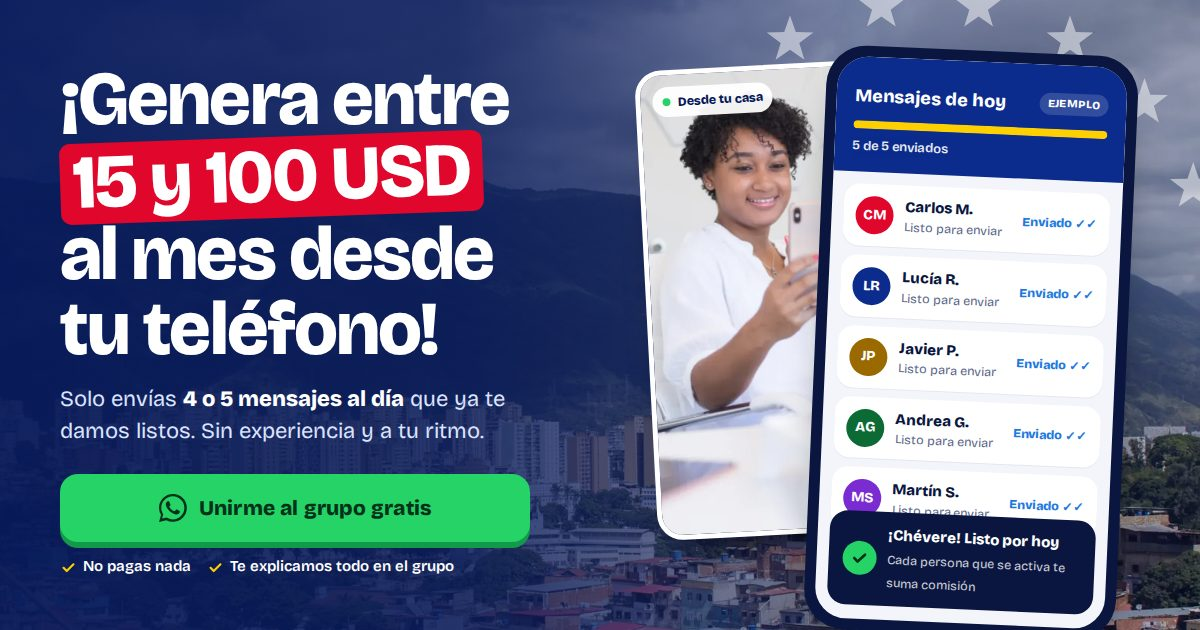
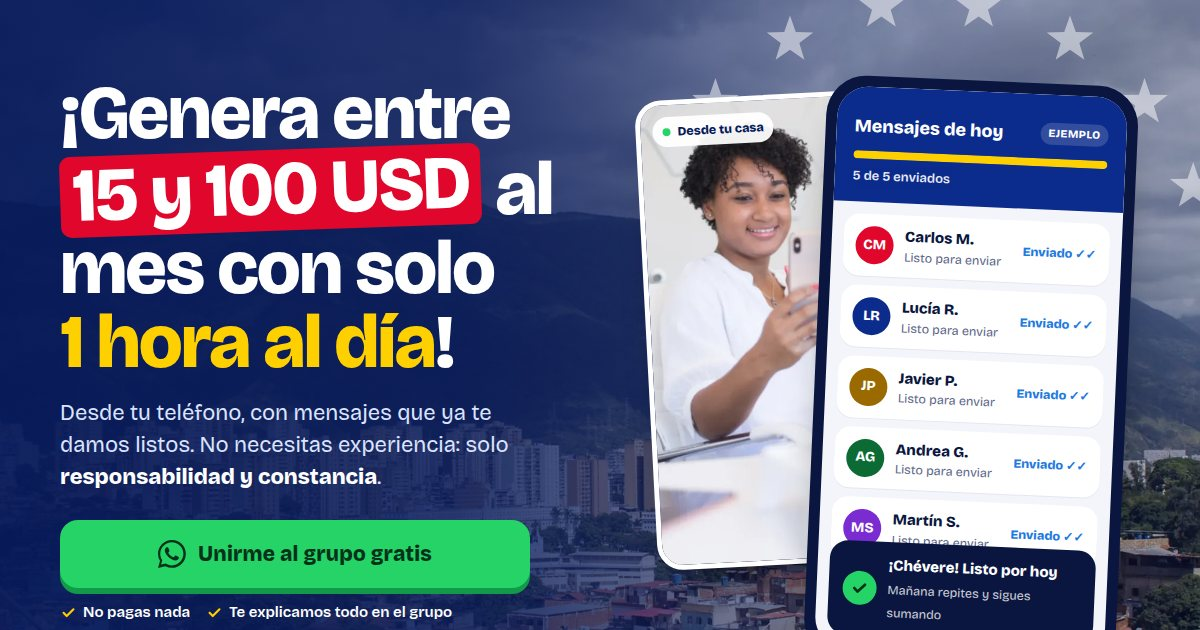
feat: 1 hora al dia con responsabilidad y constancia, seccion de compromiso y mas preguntas

diff --git a/public/index.html b/public/index.html
@@ -3,10 +3,10 @@
 <head>
 <meta charset="utf-8">
 <meta name="viewport" content="width=device-width, initial-scale=1, viewport-fit=cover">
-<title>Genera entre 15 y 100 USD al mes desde tu teléfono</title>
-<meta name="description" content="Envía 4 o 5 mensajes al día que ya te damos listos. Sin experiencia y a tu ritmo. Únete gratis al grupo de WhatsApp.">
-<meta property="og:title" content="Genera entre 15 y 100 USD al mes desde tu teléfono">
-<meta property="og:description" content="4 o 5 mensajes al día, ya escritos. Sin experiencia. Únete gratis al grupo.">
+<title>Genera entre 15 y 100 USD al mes con 1 hora al día</title>
+<meta name="description" content="Desde tu teléfono y con mensajes que ya te damos listos. Sin experiencia: solo 1 hora al día, con responsabilidad y constancia. Únete gratis al grupo de WhatsApp.">
+<meta property="og:title" content="Genera entre 15 y 100 USD al mes con 1 hora al día">
+<meta property="og:description" content="Desde tu teléfono, sin experiencia. Solo 1 hora al día con responsabilidad y constancia. Únete gratis al grupo.">
 <meta property="og:type" content="website">
 <meta property="og:image:width" content="1200">
 <meta property="og:image:height" content="630">
@@ -56,6 +56,7 @@ body{font-family:"Bricolage Grotesque",system-ui,sans-serif;color:var(--tinta);b
 .lugar svg{width:15px;height:15px;fill:none;stroke:var(--amarillo);stroke-width:2.4}
 h1{margin-top:12px;font-weight:800;font-size:clamp(40px, 11vw, 76px);line-height:.98;letter-spacing:-0.025em;text-wrap:balance}
 .monto{display:inline-block;background:var(--rojo);color:#fff;padding:.02em .16em .06em;border-radius:.14em;transform:rotate(-2deg);white-space:nowrap}
+.hora{color:var(--amarillo)}
 .sub{margin-top:18px;font-size:clamp(18px, 4.8vw, 22px);line-height:1.45;color:#dbe3ff;max-width:32ch}
 .sub b{color:#fff;font-weight:800}
 
@@ -137,6 +138,37 @@ h2{margin-top:8px;font-size:clamp(32px, 8.4vw, 54px);line-height:1.02;font-weigh
 .pasos p{margin-top:6px;font-size:16.5px;line-height:1.45;color:#39436a}
 .pasos-cta{margin-top:30px;max-width:460px}
 
+/* compromiso: 1 hora al dia, responsabilidad y constancia */
+.compromiso{background-color:var(--amarillo);background-image:var(--estrellitas)}
+.compromiso .kicker{color:var(--azul-osc)}
+.compromiso .intro{color:#27305c}
+.compromiso .intro b{color:var(--azul-osc)}
+.comp-grid{display:grid;gap:26px}
+.dia{background:#fff;border-radius:24px;padding:20px 18px 18px;box-shadow:0 2px 0 rgba(10,22,64,.08)}
+.dia-tit{display:flex;justify-content:space-between;align-items:baseline;gap:10px;font-size:15px;font-weight:800;color:var(--azul)}
+.dia-tit small{font-size:13px;font-weight:600;color:var(--gris)}
+.horas{display:grid;grid-template-columns:repeat(24,1fr);gap:3px;height:46px;margin-top:44px}
+.horas > i{background:#dfe5f4;border-radius:4px;position:relative}
+.horas > i.tuya{background:var(--rojo)}
+.etiqueta{position:absolute;bottom:calc(100% + 9px);left:50%;transform:translateX(-50%);white-space:nowrap;
+  background:var(--rojo);color:#fff;font-size:13px;font-weight:800;font-style:normal;padding:5px 10px;border-radius:999px}
+.etiqueta::after{content:"";position:absolute;left:50%;top:100%;margin-left:-6px;border:6px solid transparent;border-top-color:var(--rojo)}
+.marcas{display:flex;justify-content:space-between;margin-top:7px;font-size:12px;font-weight:600;color:var(--gris)}
+.leyenda{display:flex;flex-wrap:wrap;gap:6px 18px;margin-top:14px;font-size:14.5px;font-weight:600;color:#39436a}
+.leyenda span{display:inline-flex;align-items:center;gap:7px}
+.leyenda i{width:12px;height:12px;border-radius:3px;background:#dfe5f4}
+.leyenda i.r{background:var(--rojo)}
+.pide{list-style:none;display:grid;gap:12px;margin-top:12px}
+.pide li{display:flex;gap:14px;align-items:flex-start;background:#fff;border-radius:20px;padding:18px;box-shadow:0 2px 0 rgba(10,22,64,.08)}
+.pide .ic{width:46px;height:46px;border-radius:14px;background:var(--azul);display:grid;place-items:center;flex:none}
+.pide .ic svg{width:25px;height:25px;fill:none;stroke:#fff;stroke-width:2.2;stroke-linecap:round;stroke-linejoin:round}
+.pide b{display:block;font-size:19px;color:var(--azul);line-height:1.2}
+.pide p{margin-top:4px;font-size:16px;line-height:1.45;color:#39436a}
+.racha{display:flex;gap:5px;margin-top:10px}
+.racha i{width:26px;height:26px;border-radius:50%;background:var(--wa);color:var(--wa-tinta);font-style:normal;font-size:12px;font-weight:800;display:grid;place-items:center}
+.comp-linea{font-size:18px;font-weight:600;color:var(--azul-osc)}
+.comp-accion .cta{max-width:460px}
+
 /* cuanto: foto de El Avila al atardecer */
 .cuanto{color:#fff;background:var(--azul-osc);overflow:hidden}
 .cuanto::before{content:"";position:absolute;inset:0;background:url(img/avila-1600.webp) center 60%/cover no-repeat;opacity:.5}
@@ -211,6 +243,11 @@ footer a{color:inherit}
   .tel{transform:rotate(2.5deg)}
   .pasos{grid-template-columns:repeat(4,1fr)}
   .pasos li{padding:84px 22px 26px}
+  .comp-grid{grid-template-columns:.85fr 1.15fr;grid-template-areas:"head vis" "accion vis";column-gap:56px;row-gap:0;align-items:start}
+  .comp-head{grid-area:head;align-self:end}
+  .comp-vis{grid-area:vis}
+  .comp-accion{grid-area:accion;margin-top:26px}
+  .pide{grid-template-columns:1fr 1fr}
   .escalera{grid-template-columns:repeat(3,1fr);align-items:end;gap:14px}
   .escalera .escalon:nth-child(n){width:auto}
   .escalon{border-radius:20px 20px 8px 8px;grid-template-columns:1fr;align-content:start;padding:20px}
@@ -245,8 +282,8 @@ footer a{color:inherit}
   <div class="cont hero-grid">
     <div>
       <span class="lugar"><svg viewBox="0 0 24 24" aria-hidden="true"><path d="M12 21s-6.5-6.1-6.5-11A6.5 6.5 0 0 1 18.5 10c0 4.9-6.5 11-6.5 11z"/><circle cx="12" cy="10" r="2.3"/></svg>Desde Caracas, Maracaibo, Valencia o donde estés</span>
-      <h1>¡Genera entre <span class="monto">15 y 100 USD</span> al mes desde tu teléfono!</h1>
-      <p class="sub">Solo envías <b>4 o 5 mensajes al día</b> que ya te damos listos. Sin experiencia y a tu ritmo.</p>
+      <h1>¡Genera entre <span class="monto">15 y 100 USD</span> al mes con solo <span class="hora">1 hora al día</span>!</h1>
+      <p class="sub">Desde tu teléfono, con mensajes que ya te damos listos. No necesitas experiencia: solo <b>responsabilidad y constancia</b>.</p>
 
       <a class="cta" href="https://chat.whatsapp.com/C1FRFqTowrd1bjHnhnset9" rel="noopener"><svg viewBox="0 0 24 24" aria-hidden="true"><path d="M.06 24l1.68-6.16A11.9 11.9 0 010 11.93C0 5.35 5.35 0 11.93 0a11.86 11.86 0 018.44 3.5 11.82 11.82 0 013.49 8.44c0 6.58-5.35 11.93-11.93 11.93a11.9 11.9 0 01-5.7-1.45L.06 24zM6.6 20.2c1.63.97 3.19 1.55 5.25 1.55 5.46 0 9.91-4.44 9.91-9.9 0-5.47-4.45-9.91-9.91-9.91S1.95 6.38 1.95 11.85c0 2.17.64 3.79 1.7 5.48l-.99 3.63 3.94-.76zm11.28-5.6c-.07-.12-.27-.2-.57-.35-.3-.15-1.76-.87-2.03-.97-.27-.1-.47-.15-.67.15-.2.3-.77.97-.94 1.17-.17.2-.35.22-.65.07-.3-.15-1.26-.46-2.4-1.48-.89-.79-1.49-1.77-1.66-2.07-.17-.3-.02-.46.13-.61.14-.13.3-.35.45-.52.15-.17.2-.3.3-.5.1-.2.05-.37-.02-.52-.07-.15-.67-1.62-.92-2.21-.24-.58-.49-.5-.67-.51h-.57c-.2 0-.52.07-.79.37-.27.3-1.04 1.02-1.04 2.48s1.06 2.88 1.21 3.08c.15.2 2.1 3.2 5.08 4.49.71.3 1.26.49 1.69.63.71.23 1.36.19 1.87.12.57-.09 1.76-.72 2-1.41.25-.7.25-1.29.18-1.41z"/></svg>Unirme al grupo gratis</a>
       <div class="cta-nota">
@@ -277,7 +314,7 @@ footer a{color:inherit}
             </ul>
             <div class="toast" id="toast">
               <span class="chk"><svg viewBox="0 0 24 24"><path d="M5 12.5l4.5 4.5L19 7.5"/></svg></span>
-              <span><b>¡Chévere! Listo por hoy</b><small>Cada persona que se activa te suma comisión</small></span>
+              <span><b>¡Chévere! Listo por hoy</b><small>Mañana repites y sigues sumando</small></span>
             </div>
           </div>
         </div>
@@ -291,7 +328,7 @@ footer a{color:inherit}
     <li><svg viewBox="0 0 24 24" aria-hidden="true"><circle cx="12" cy="12" r="9"/><path d="M8 12.5l2.8 2.8L16.5 9.5"/></svg><span><b>Gratis para empezar</b><small>No pagas nada para entrar</small></span></li>
     <li><svg viewBox="0 0 24 24" aria-hidden="true"><rect x="6.5" y="2.5" width="11" height="19" rx="2.5"/><path d="M11 18.5h2"/></svg><span><b>Desde tu teléfono</b><small>Solo necesitas WhatsApp</small></span></li>
     <li><svg viewBox="0 0 24 24" aria-hidden="true"><path d="M4 6.5h16M4 12h10M4 17.5h7"/></svg><span><b>Sin experiencia</b><small>Te damos los mensajes listos</small></span></li>
-    <li><svg viewBox="0 0 24 24" aria-hidden="true"><circle cx="12" cy="12" r="9"/><path d="M12 7v5l3.5 2"/></svg><span><b>A tu ritmo</b><small>Unos minutos al día</small></span></li>
+    <li><svg viewBox="0 0 24 24" aria-hidden="true"><circle cx="12" cy="12" r="9"/><path d="M12 7v5l3.5 2"/></svg><span><b>1 hora al día</b><small>Con constancia, cada día</small></span></li>
   </ul>
 </div>
 
@@ -304,10 +341,48 @@ footer a{color:inherit}
       <ol class="pasos">
         <li class="rev"><h3>Únete al grupo</h3><p>Toca el botón verde y entra a nuestro grupo de WhatsApp. No cuesta nada.</p></li>
         <li class="rev"><h3>Recibe tus mensajes listos</h3><p>Cada día te pasamos a quién escribirle y el mensaje ya escrito. Copias, pegas y listo.</p></li>
-        <li class="rev"><h3>Envía 4 o 5 mensajes</h3><p>Desde tu teléfono, en unos minutos, a la hora que mejor te quede.</p></li>
-        <li class="rev"><h3>Cobra por tus resultados</h3><p>Cada persona que se activa con tu código te suma comisión. Mientras más le echas pichón, más generas.</p></li>
+        <li class="rev"><h3>Dedícale 1 hora al día</h3><p>Desde tu teléfono, a la hora que mejor te quede. Lo importante es no saltarte días.</p></li>
+        <li class="rev"><h3>Cobra por tus resultados</h3><p>Cada persona que se activa con tu código te suma comisión. Si le echas pichón todos los días, vas sumando más.</p></li>
       </ol>
       <a class="cta pasos-cta rev" href="https://chat.whatsapp.com/C1FRFqTowrd1bjHnhnset9" rel="noopener"><svg viewBox="0 0 24 24" aria-hidden="true"><path d="M.06 24l1.68-6.16A11.9 11.9 0 010 11.93C0 5.35 5.35 0 11.93 0a11.86 11.86 0 018.44 3.5 11.82 11.82 0 013.49 8.44c0 6.58-5.35 11.93-11.93 11.93a11.9 11.9 0 01-5.7-1.45L.06 24zM6.6 20.2c1.63.97 3.19 1.55 5.25 1.55 5.46 0 9.91-4.44 9.91-9.9 0-5.47-4.45-9.91-9.91-9.91S1.95 6.38 1.95 11.85c0 2.17.64 3.79 1.7 5.48l-.99 3.63 3.94-.76zm11.28-5.6c-.07-.12-.27-.2-.57-.35-.3-.15-1.76-.87-2.03-.97-.27-.1-.47-.15-.67.15-.2.3-.77.97-.94 1.17-.17.2-.35.22-.65.07-.3-.15-1.26-.46-2.4-1.48-.89-.79-1.49-1.77-1.66-2.07-.17-.3-.02-.46.13-.61.14-.13.3-.35.45-.52.15-.17.2-.3.3-.5.1-.2.05-.37-.02-.52-.07-.15-.67-1.62-.92-2.21-.24-.58-.49-.5-.67-.51h-.57c-.2 0-.52.07-.79.37-.27.3-1.04 1.02-1.04 2.48s1.06 2.88 1.21 3.08c.15.2 2.1 3.2 5.08 4.49.71.3 1.26.49 1.69.63.71.23 1.36.19 1.87.12.57-.09 1.76-.72 2-1.41.25-.7.25-1.29.18-1.41z"/></svg>¡Me anoto!</a>
+    </div>
+  </section>
+
+  <section class="bloque compromiso" id="compromiso">
+    <div class="cont comp-grid">
+      <div class="comp-head">
+        <span class="kicker rev">Lo que te pedimos</span>
+        <h2 class="rev">Solo 1 hora de tu día</h2>
+        <p class="intro rev">Es sencillo, pero no es magia: funciona si lo haces con <b>responsabilidad y constancia</b>.</p>
+      </div>
+
+      <div class="comp-vis">
+        <div class="dia rev" role="img" aria-label="Un día de 24 horas: 23 son para tu vida y 1 hora es para generar">
+          <div class="dia-tit"><span>Tu día</span><small>24 horas</small></div>
+          <div class="horas" aria-hidden="true">
+            <i></i><i></i><i></i><i></i><i></i><i></i><i></i><i></i><i></i><i></i><i></i><i></i>
+            <i></i><i></i><i></i><i></i><i></i><i></i><i></i><i class="tuya"><b class="etiqueta">Tu hora</b></i><i></i><i></i><i></i><i></i>
+          </div>
+          <div class="marcas" aria-hidden="true"><span>0 h</span><span>6 h</span><span>12 h</span><span>18 h</span><span>24 h</span></div>
+          <div class="leyenda" aria-hidden="true"><span><i></i>23 horas para tu vida</span><span><i class="r"></i>1 hora para generar</span></div>
+        </div>
+        <ul class="pide">
+          <li class="rev">
+            <span class="ic"><svg viewBox="0 0 24 24" aria-hidden="true"><path d="M12 3l7 3v5c0 4.5-3 8.4-7 10-4-1.6-7-5.5-7-10V6l7-3z"/><path d="M8.8 12.2l2.2 2.2 4.3-4.6"/></svg></span>
+            <span><b>Responsabilidad</b><p>Cumples con tus mensajes de cada día, como un compromiso contigo.</p></span>
+          </li>
+          <li class="rev">
+            <span class="ic"><svg viewBox="0 0 24 24" aria-hidden="true"><rect x="3.5" y="5" width="17" height="15.5" rx="2.5"/><path d="M3.5 10h17M8 3v4M16 3v4M9 15l2 2 4-4"/></svg></span>
+            <span><b>Constancia</b><p>No te saltas días. Así es como se escala.</p>
+              <span class="racha" aria-hidden="true"><i>L</i><i>M</i><i>M</i><i>J</i><i>V</i><i>S</i><i>D</i></span></span>
+          </li>
+        </ul>
+      </div>
+
+      <div class="comp-accion">
+        <p class="comp-linea rev">¿Cuentas con eso? Lo demás te lo enseñamos en el grupo.</p>
+        <a class="cta rev" href="https://chat.whatsapp.com/C1FRFqTowrd1bjHnhnset9" rel="noopener"><svg viewBox="0 0 24 24" aria-hidden="true"><path d="M.06 24l1.68-6.16A11.9 11.9 0 010 11.93C0 5.35 5.35 0 11.93 0a11.86 11.86 0 018.44 3.5 11.82 11.82 0 013.49 8.44c0 6.58-5.35 11.93-11.93 11.93a11.9 11.9 0 01-5.7-1.45L.06 24zM6.6 20.2c1.63.97 3.19 1.55 5.25 1.55 5.46 0 9.91-4.44 9.91-9.9 0-5.47-4.45-9.91-9.91-9.91S1.95 6.38 1.95 11.85c0 2.17.64 3.79 1.7 5.48l-.99 3.63 3.94-.76zm11.28-5.6c-.07-.12-.27-.2-.57-.35-.3-.15-1.76-.87-2.03-.97-.27-.1-.47-.15-.67.15-.2.3-.77.97-.94 1.17-.17.2-.35.22-.65.07-.3-.15-1.26-.46-2.4-1.48-.89-.79-1.49-1.77-1.66-2.07-.17-.3-.02-.46.13-.61.14-.13.3-.35.45-.52.15-.17.2-.3.3-.5.1-.2.05-.37-.02-.52-.07-.15-.67-1.62-.92-2.21-.24-.58-.49-.5-.67-.51h-.57c-.2 0-.52.07-.79.37-.27.3-1.04 1.02-1.04 2.48s1.06 2.88 1.21 3.08c.15.2 2.1 3.2 5.08 4.49.71.3 1.26.49 1.69.63.71.23 1.36.19 1.87.12.57-.09 1.76-.72 2-1.41.25-.7.25-1.29.18-1.41z"/></svg>Sí, tengo 1 hora al día</a>
+      </div>
     </div>
   </section>
 
@@ -315,11 +390,11 @@ footer a{color:inherit}
     <div class="cont">
       <span class="kicker rev" style="color:var(--amarillo)">Tus ingresos</span>
       <h2 class="rev">¿Cuánto puedes generar?</h2>
-      <p class="intro rev">Arrancas con poco y, cuando le agarras el golpe, puedes escalar.</p>
+      <p class="intro rev">Arrancas con poco y, con constancia, escalas.</p>
       <div class="escalera rev">
-        <div class="escalon"><span class="n">Paso 1</span><b>Arrancas</b><span class="m">15 USD<small>al mes</small></span><small>Tus primeros mensajes</small></div>
-        <div class="escalon"><span class="n">Paso 2</span><b>Le agarras el golpe</b><small>Lo haces con más soltura</small></div>
-        <div class="escalon"><span class="n">Paso 3</span><b>Escalas</b><span class="m">100 USD<small>al mes</small></span><small>Más mensajes, más resultados</small></div>
+        <div class="escalon"><span class="n">Paso 1</span><b>Arrancas</b><span class="m">15 USD<small>al mes</small></span><small>Tu hora de cada día</small></div>
+        <div class="escalon"><span class="n">Paso 2</span><b>Le agarras el golpe</b><small>Tu hora ya es rutina</small></div>
+        <div class="escalon"><span class="n">Paso 3</span><b>Escalas</b><span class="m">100 USD<small>al mes</small></span><small>Más constancia, más resultados</small></div>
       </div>
       <p class="aviso rev">Montos de referencia. Lo que generas depende de tu actividad y tus resultados.</p>
     </div>
@@ -332,8 +407,10 @@ footer a{color:inherit}
       <div class="faq">
         <details class="rev"><summary>¿Tengo que pagar algo?</summary><p>No. Entrar al grupo y empezar es gratis.</p></details>
         <details class="rev"><summary>¿Necesito experiencia?</summary><p>No. Te damos los mensajes ya escritos y te explicamos todo en el grupo.</p></details>
-        <details class="rev"><summary>¿Cuánto tiempo me toma?</summary><p>Unos minutos al día. Son 4 o 5 mensajes y los mandas cuando quieras.</p></details>
+        <details class="rev"><summary>¿Cuánto tiempo me toma?</summary><p>1 hora al día, a la hora que mejor te quede. Lo que sí te pedimos es responsabilidad y constancia: hacerlo todos los días.</p></details>
+        <details class="rev"><summary>¿Por qué piden constancia?</summary><p>Porque los resultados se construyen día a día. Quien cumple su hora todos los días es quien llega a escalar.</p></details>
         <details class="rev"><summary>¿Desde dónde lo puedo hacer?</summary><p>Desde donde estés, en Venezuela o afuera. Solo necesitas tu teléfono con WhatsApp.</p></details>
+        <details class="rev"><summary>¿Y si después veo que no es para mí?</summary><p>Sales del grupo cuando quieras. Entrar y preguntar no te compromete a nada.</p></details>
       </div>
     </div>
   </section>
@@ -341,7 +418,7 @@ footer a{color:inherit}
   <section class="cierre" id="cierre">
     <div class="cont">
       <h2 class="rev">¿Te animas, pana?</h2>
-      <p class="rev">Entra al grupo y te explicamos todo para que empieces.</p>
+      <p class="rev">Si tienes 1 hora al día y ganas de ser constante, este es tu lugar. Entra al grupo y te explicamos todo.</p>
       <a class="cta rev" href="https://chat.whatsapp.com/C1FRFqTowrd1bjHnhnset9" rel="noopener"><svg viewBox="0 0 24 24" aria-hidden="true"><path d="M.06 24l1.68-6.16A11.9 11.9 0 010 11.93C0 5.35 5.35 0 11.93 0a11.86 11.86 0 018.44 3.5 11.82 11.82 0 013.49 8.44c0 6.58-5.35 11.93-11.93 11.93a11.9 11.9 0 01-5.7-1.45L.06 24zM6.6 20.2c1.63.97 3.19 1.55 5.25 1.55 5.46 0 9.91-4.44 9.91-9.9 0-5.47-4.45-9.91-9.91-9.91S1.95 6.38 1.95 11.85c0 2.17.64 3.79 1.7 5.48l-.99 3.63 3.94-.76zm11.28-5.6c-.07-.12-.27-.2-.57-.35-.3-.15-1.76-.87-2.03-.97-.27-.1-.47-.15-.67.15-.2.3-.77.97-.94 1.17-.17.2-.35.22-.65.07-.3-.15-1.26-.46-2.4-1.48-.89-.79-1.49-1.77-1.66-2.07-.17-.3-.02-.46.13-.61.14-.13.3-.35.45-.52.15-.17.2-.3.3-.5.1-.2.05-.37-.02-.52-.07-.15-.67-1.62-.92-2.21-.24-.58-.49-.5-.67-.51h-.57c-.2 0-.52.07-.79.37-.27.3-1.04 1.02-1.04 2.48s1.06 2.88 1.21 3.08c.15.2 2.1 3.2 5.08 4.49.71.3 1.26.49 1.69.63.71.23 1.36.19 1.87.12.57-.09 1.76-.72 2-1.41.25-.7.25-1.29.18-1.41z"/></svg>Unirme al grupo gratis</a>
     </div>
   </section>
